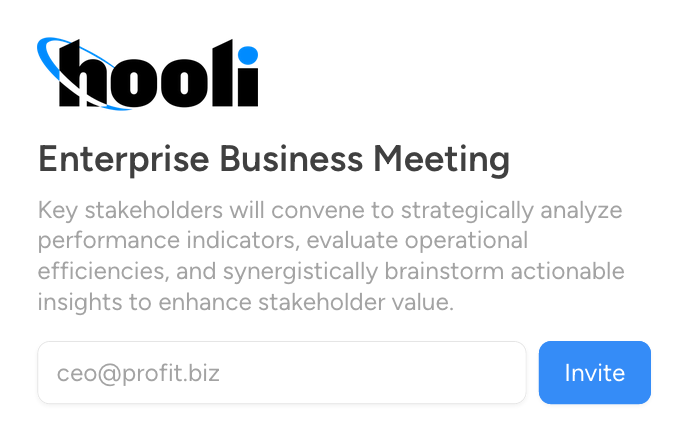
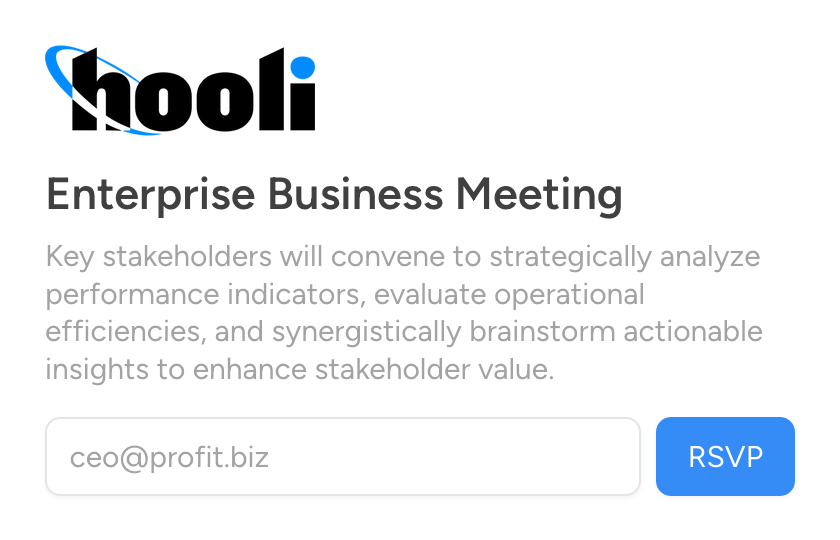
Update copy

diff --git a/resources/js/Pages/Invitation.svelte b/resources/js/Pages/Invitation.svelte
@@ -94,7 +94,7 @@
                             <Icon class="w-5 animate-spin" src={Loader4}/>
                         </div>
 
-                        <span class:opacity-0={$form.processing}>Invite</span>
+                        <span class:opacity-0={$form.processing}>RSVP</span>
                     </button>
                 </form>
             {/if}

diff --git a/resources/views/home.blade.php b/resources/views/home.blade.php
@@ -1,6 +1,9 @@
 <x-layout title="Free and easy RSVP pages, powered by Google Calendar">
     <div class="space-y-14">
-        <h1 class="sm:text-3xl text-2xl font-bold text-center">Free and easy RSVP pages<br><span class="text-blue-500">powered by Google Calendar</span></h1>
+        <h1 class="sm:text-3xl text-2xl font-bold text-center">
+            <span>Free and easy RSVP pages</span><br>
+            <span class="text-blue-500">powered by Google Calendar</span>
+        </h1>
     
         <div class="text-center space-y-2">
             <a href="{{ route('auth.redirect') }}" class="px-3 flex items-center gap-2 w-fit mx-auto border rounded-lg py-2 shadow-sm bg-blue-500 text-white border-blue-500 ">
@@ -11,6 +14,8 @@
     
                 <span>Login with Google Calendar</span>
             </a>
+
+            <p class="text-sm text-gray-500">Guests can use any calendar</p>
     
             {{-- <a href="{{ route('auth.redirect') }}" class="w-52 mx-auto block">
                 <img wdith="382" height="92" src="{{ asset('images/google-login.png') }}" alt="">
@@ -22,17 +27,17 @@
         <div class="text-center">
             <div>
                 <span class="text-blue-500">✓</span>
-                <span>Upload your own logo and image</span>
+                <span>Personalize with your logo and brand color</span>
             </div>
     
             <div>
                 <span class="text-blue-500">✓</span>
-                <span>Limit to specific email domain</span>
+                <span>Limit to your domain—great for school and company events</span>
             </div>
     
             <div>
                 <span class="text-blue-500">✓</span>
-                <span>Redirect to any URL after RSVPing</span>
+                <span>Guests are invited to your Google Calendar event</span>
             </div>
         </div>
     
